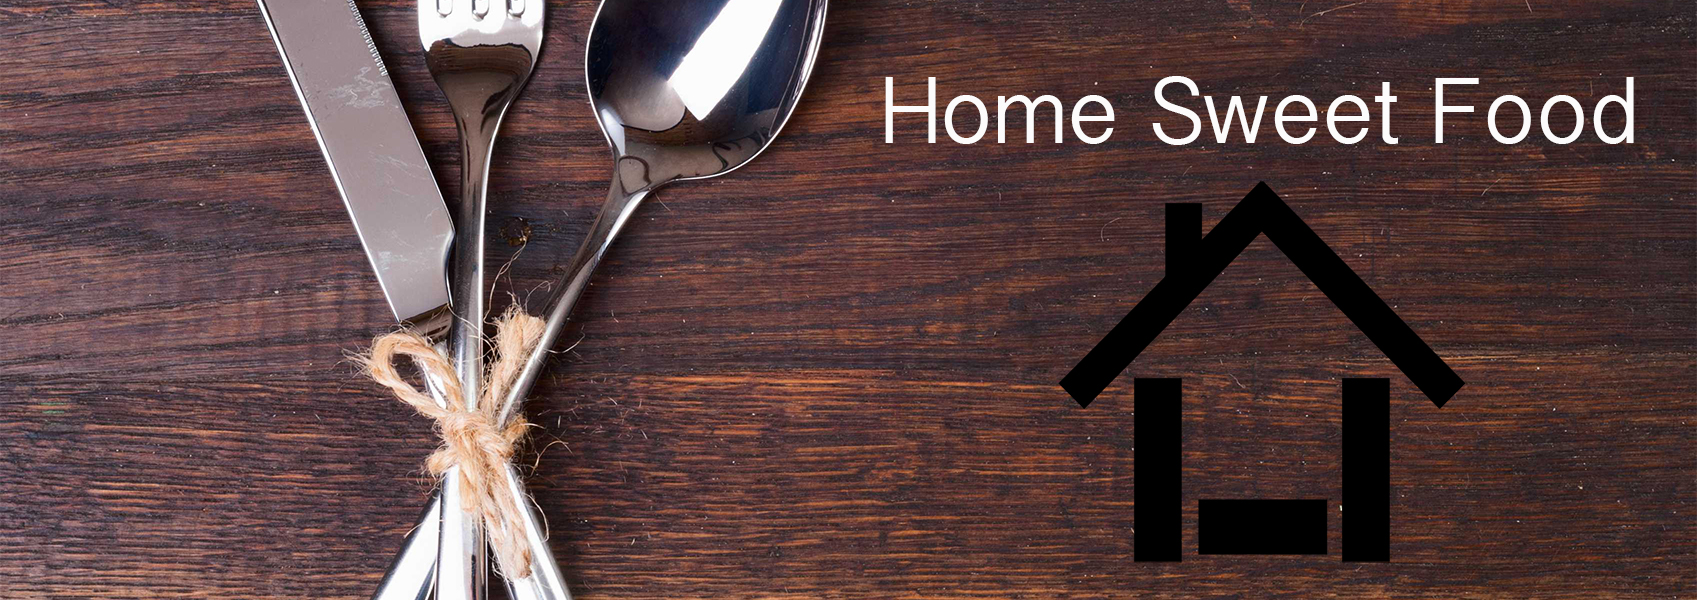
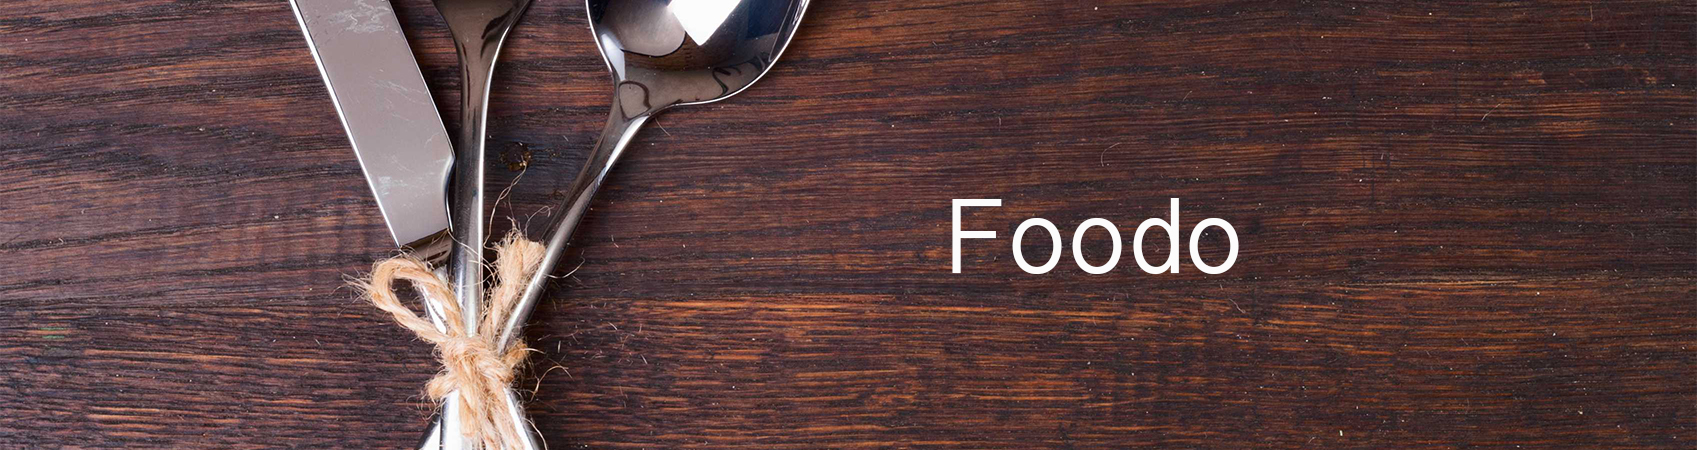
Images are of food now

diff --git a/index.html b/index.html
@@ -5,7 +5,7 @@
 <html>
   <head>
     <meta charset="utf-8">
-    <title>Home Sweet Food</title>
+    <title>Foodo</title>
     <link rel="stylesheet" href="https://cdnjs.cloudflare.com/ajax/libs/meyer-reset/2.0/reset.min.css">
     <link href='https://fonts.googleapis.com/css?family=Shadows+Into+Light' rel='stylesheet' type='text/css'>
     <!-- <link rel="shortcut icon" href="assets/chicken.png" type="image/x-icon">
@@ -45,7 +45,7 @@
         </div>
         <!-- area to display house near user -->
         <div class="panel-body houses">
-          <h3>Houses Near Your Restaurant</h3>
+          <h3>This is Possibly Your Food</h3>
         </div>
       </div>
       <ol class="restaurants-list">

diff --git a/assets/js/scripts.js b/assets/js/scripts.js
@@ -46,7 +46,7 @@ $( ".btnRestaurant" ).on( "click", function(e) {
     // begin giphy GET call
     $.ajax({
       dataType: 'json',
-      url: 'http://api.giphy.com/v1/gifs/search?q=' + cuisine + "&api_key=dc6zaTOxFJmzC",
+      url: 'http://api.giphy.com/v1/gifs/search?q=' + cuisine + "+food&api_key=dc6zaTOxFJmzC",
       method: 'GET',
       // data: params,
     }) // end ajax GET request
